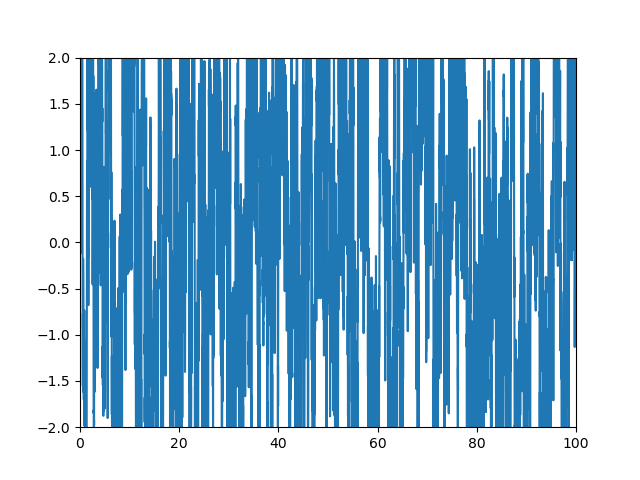
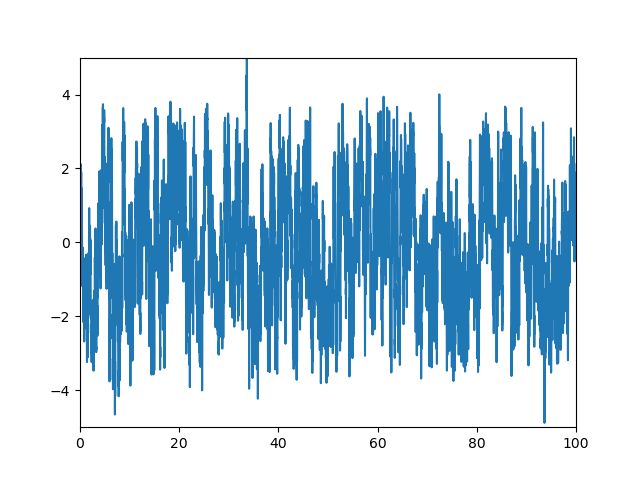
update1

diff --git a/teste.py b/teste.py
@@ -1,6 +1,6 @@
 import numpy as np
 import matplotlib.pyplot as plt
-
+from scipy.stats import norm #gaussian plot
 
 rng = np.random.default_rng(seed=1)
 
@@ -8,6 +8,8 @@ x_0 = 1.0
 dt = 0.01
 n = 10000
 epsilon = 0.25
+a = 1.0
+A = 0.12
 
 t = np.arange(stop=n) * dt
 x = np.zeros(
@@ -20,7 +22,6 @@ x[0] = x_0
 def F(x, t, a=1.0, A=0.12, Omega=1e-3):
     return x * (a - x**2) + A * np.cos(Omega * t)
 
-
 # def G(x, epsilon=1.0):
 #     return epsilon
 
@@ -30,11 +31,8 @@ def F(x, t, a=1.0, A=0.12, Omega=1e-3):
 #     a=valores_eta,
 #     size=n
 # )
-eta_t = np.random.normal(0, 1./np.sqrt(epsilon), n)
+eta_t = rng.normal(0, 1./np.sqrt(epsilon), n)
 
-
-a = 1.0
-A = 0.12
 for i in range(n - 1):
     forca = F(x[i], t[i])
     t[i + 1] = t[i] + dt
@@ -43,10 +41,29 @@ for i in range(n - 1):
 
 fig, ax = plt.subplots()
 ax.set_xlim(0, 100)
-ax.set_ylim(-2, 2)
+ax.set_ylim(-5, 5)
 
 ax.plot(t, x)
 
 fig.savefig('teste_sorteio_gaussiano.png')
 
-# blah
+
+#plotting gaussian to show the rnd gen is in fact gaussian
+# Plotting the histogram.
+fig2, ax2 = plt.subplots()
+ax2.hist(eta_t, bins=25, density=True, alpha=0.6, color='b')
+
+mu, std = norm.fit(eta_t) 
+xmin, xmax = ax2.get_xlim()
+# x = np.linspace(xmin, xmax, 1)
+x = np.arange(xmin, xmax, 0.1)
+# p = norm.pdf(x, 0,  1./np.sqrt(epsilon))
+print(1./np.sqrt(epsilon))
+p = norm.pdf(x, mu, std)
+
+ax2.plot(x, p, 'k', linewidth=2)
+title = "Fit Values: {:.2f} and {:.2f}".format(mu, std)
+ax2.set_title(title)
+fig2.savefig('gaussiana.png')
+
+# ------
